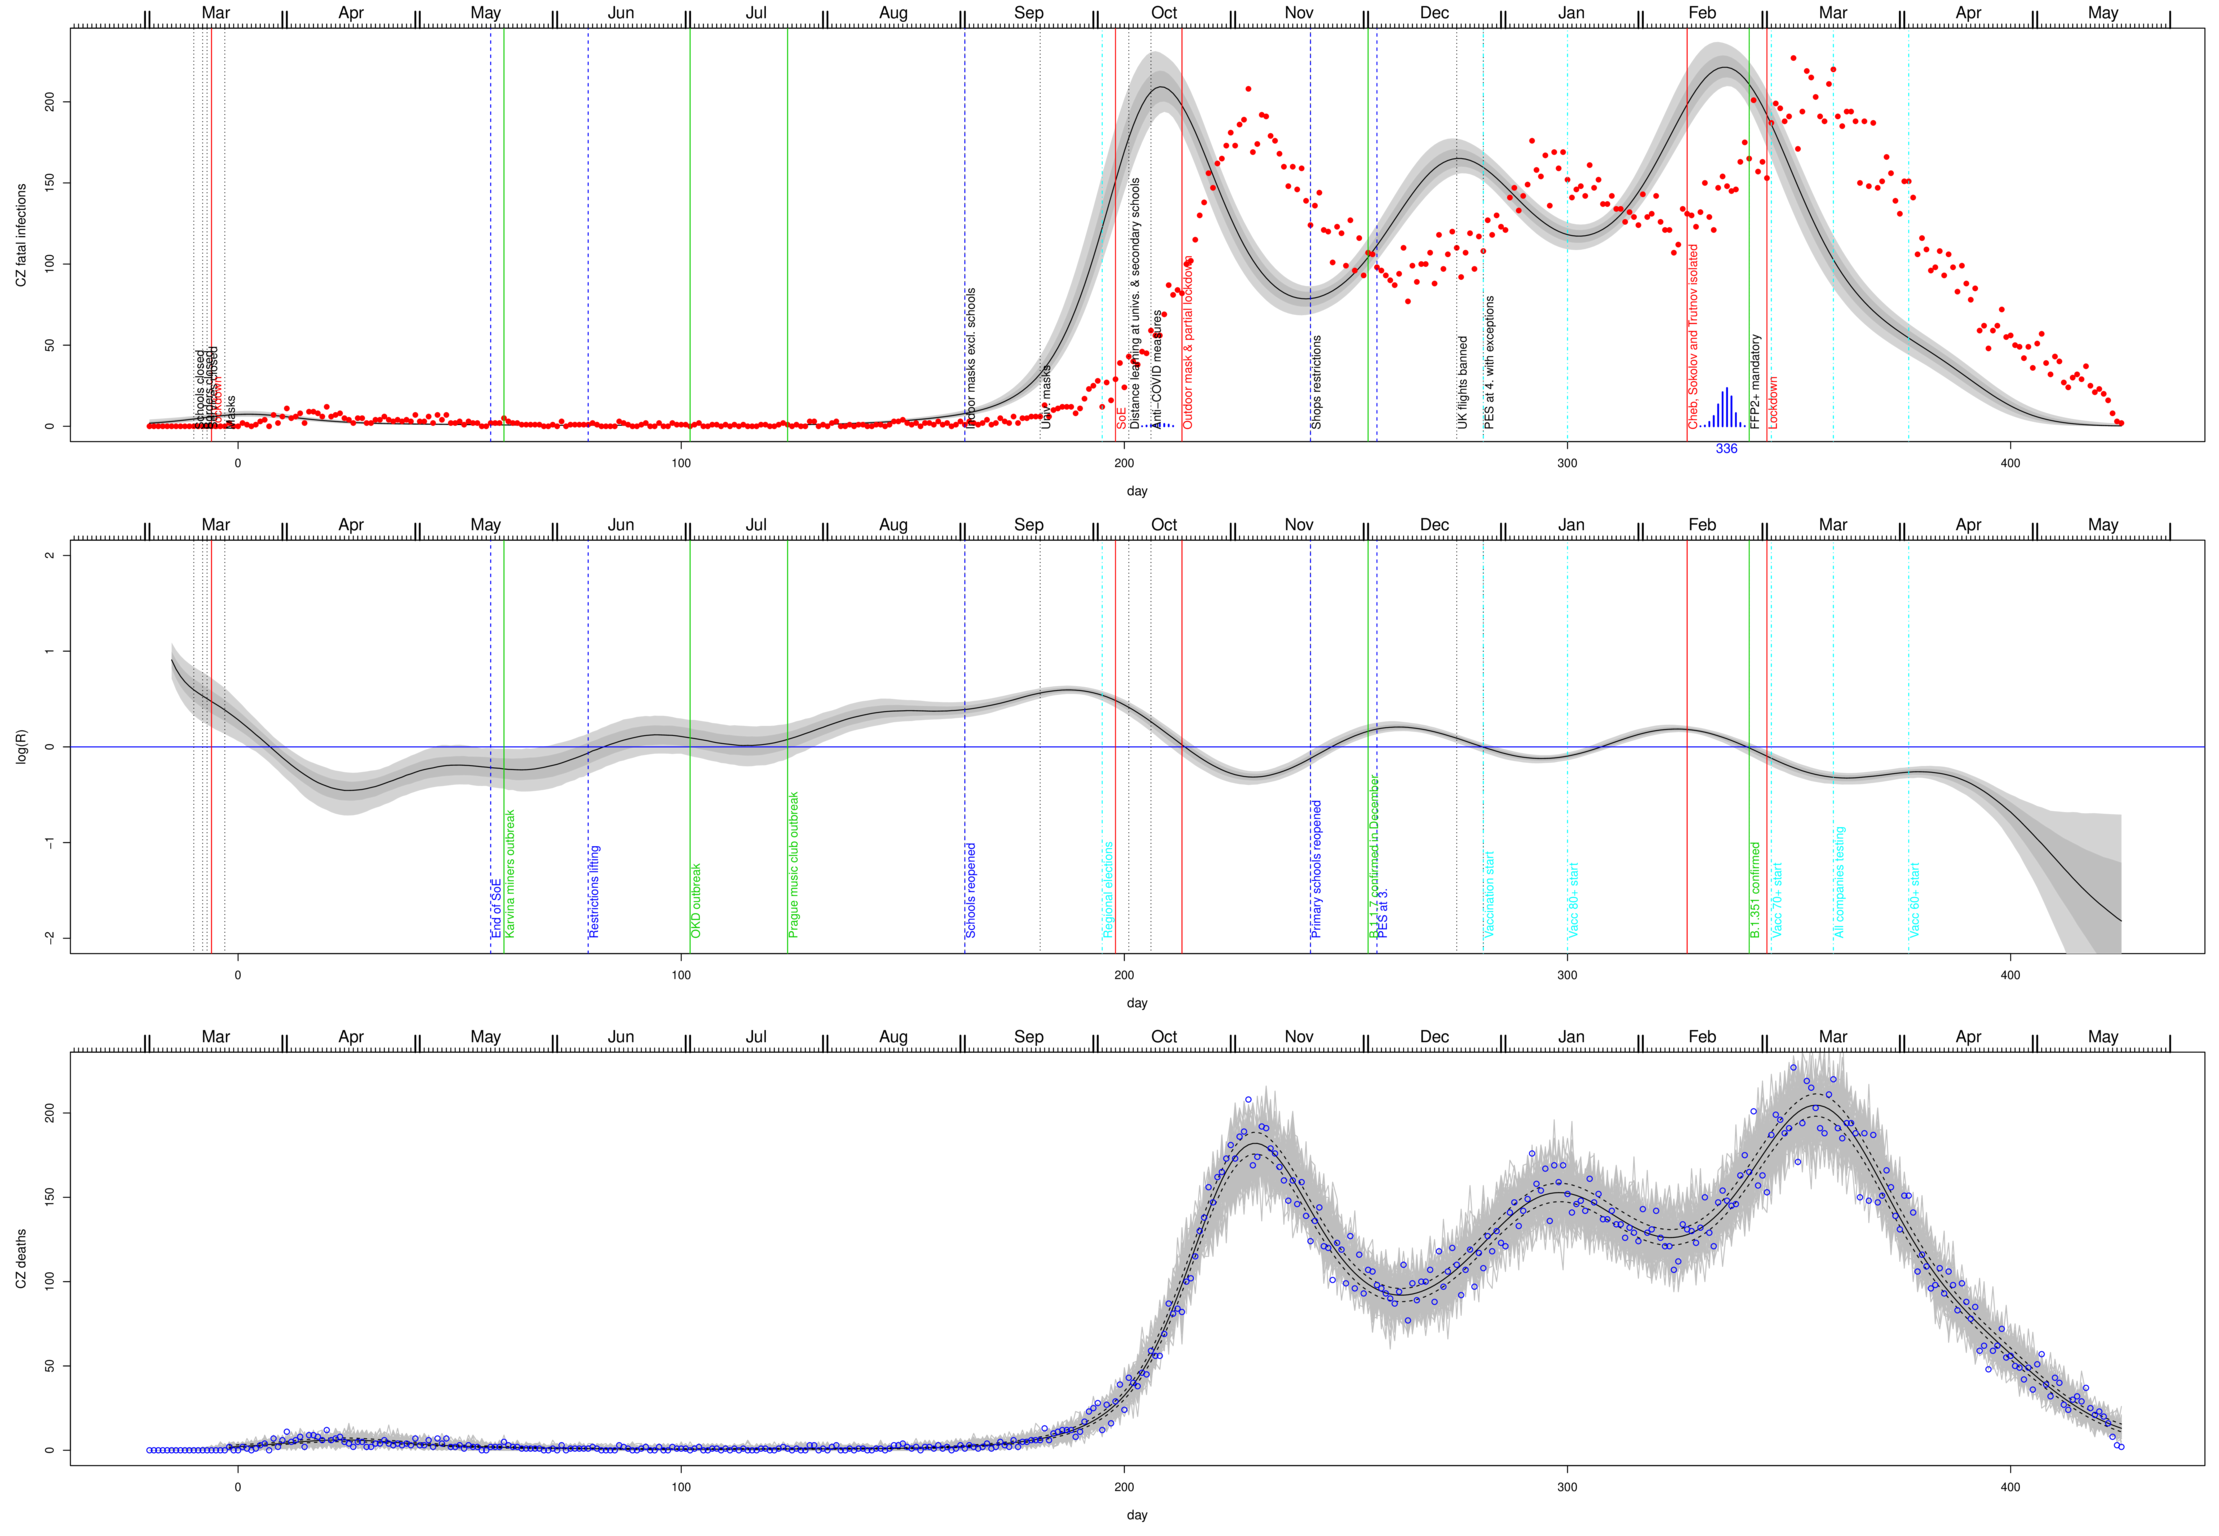
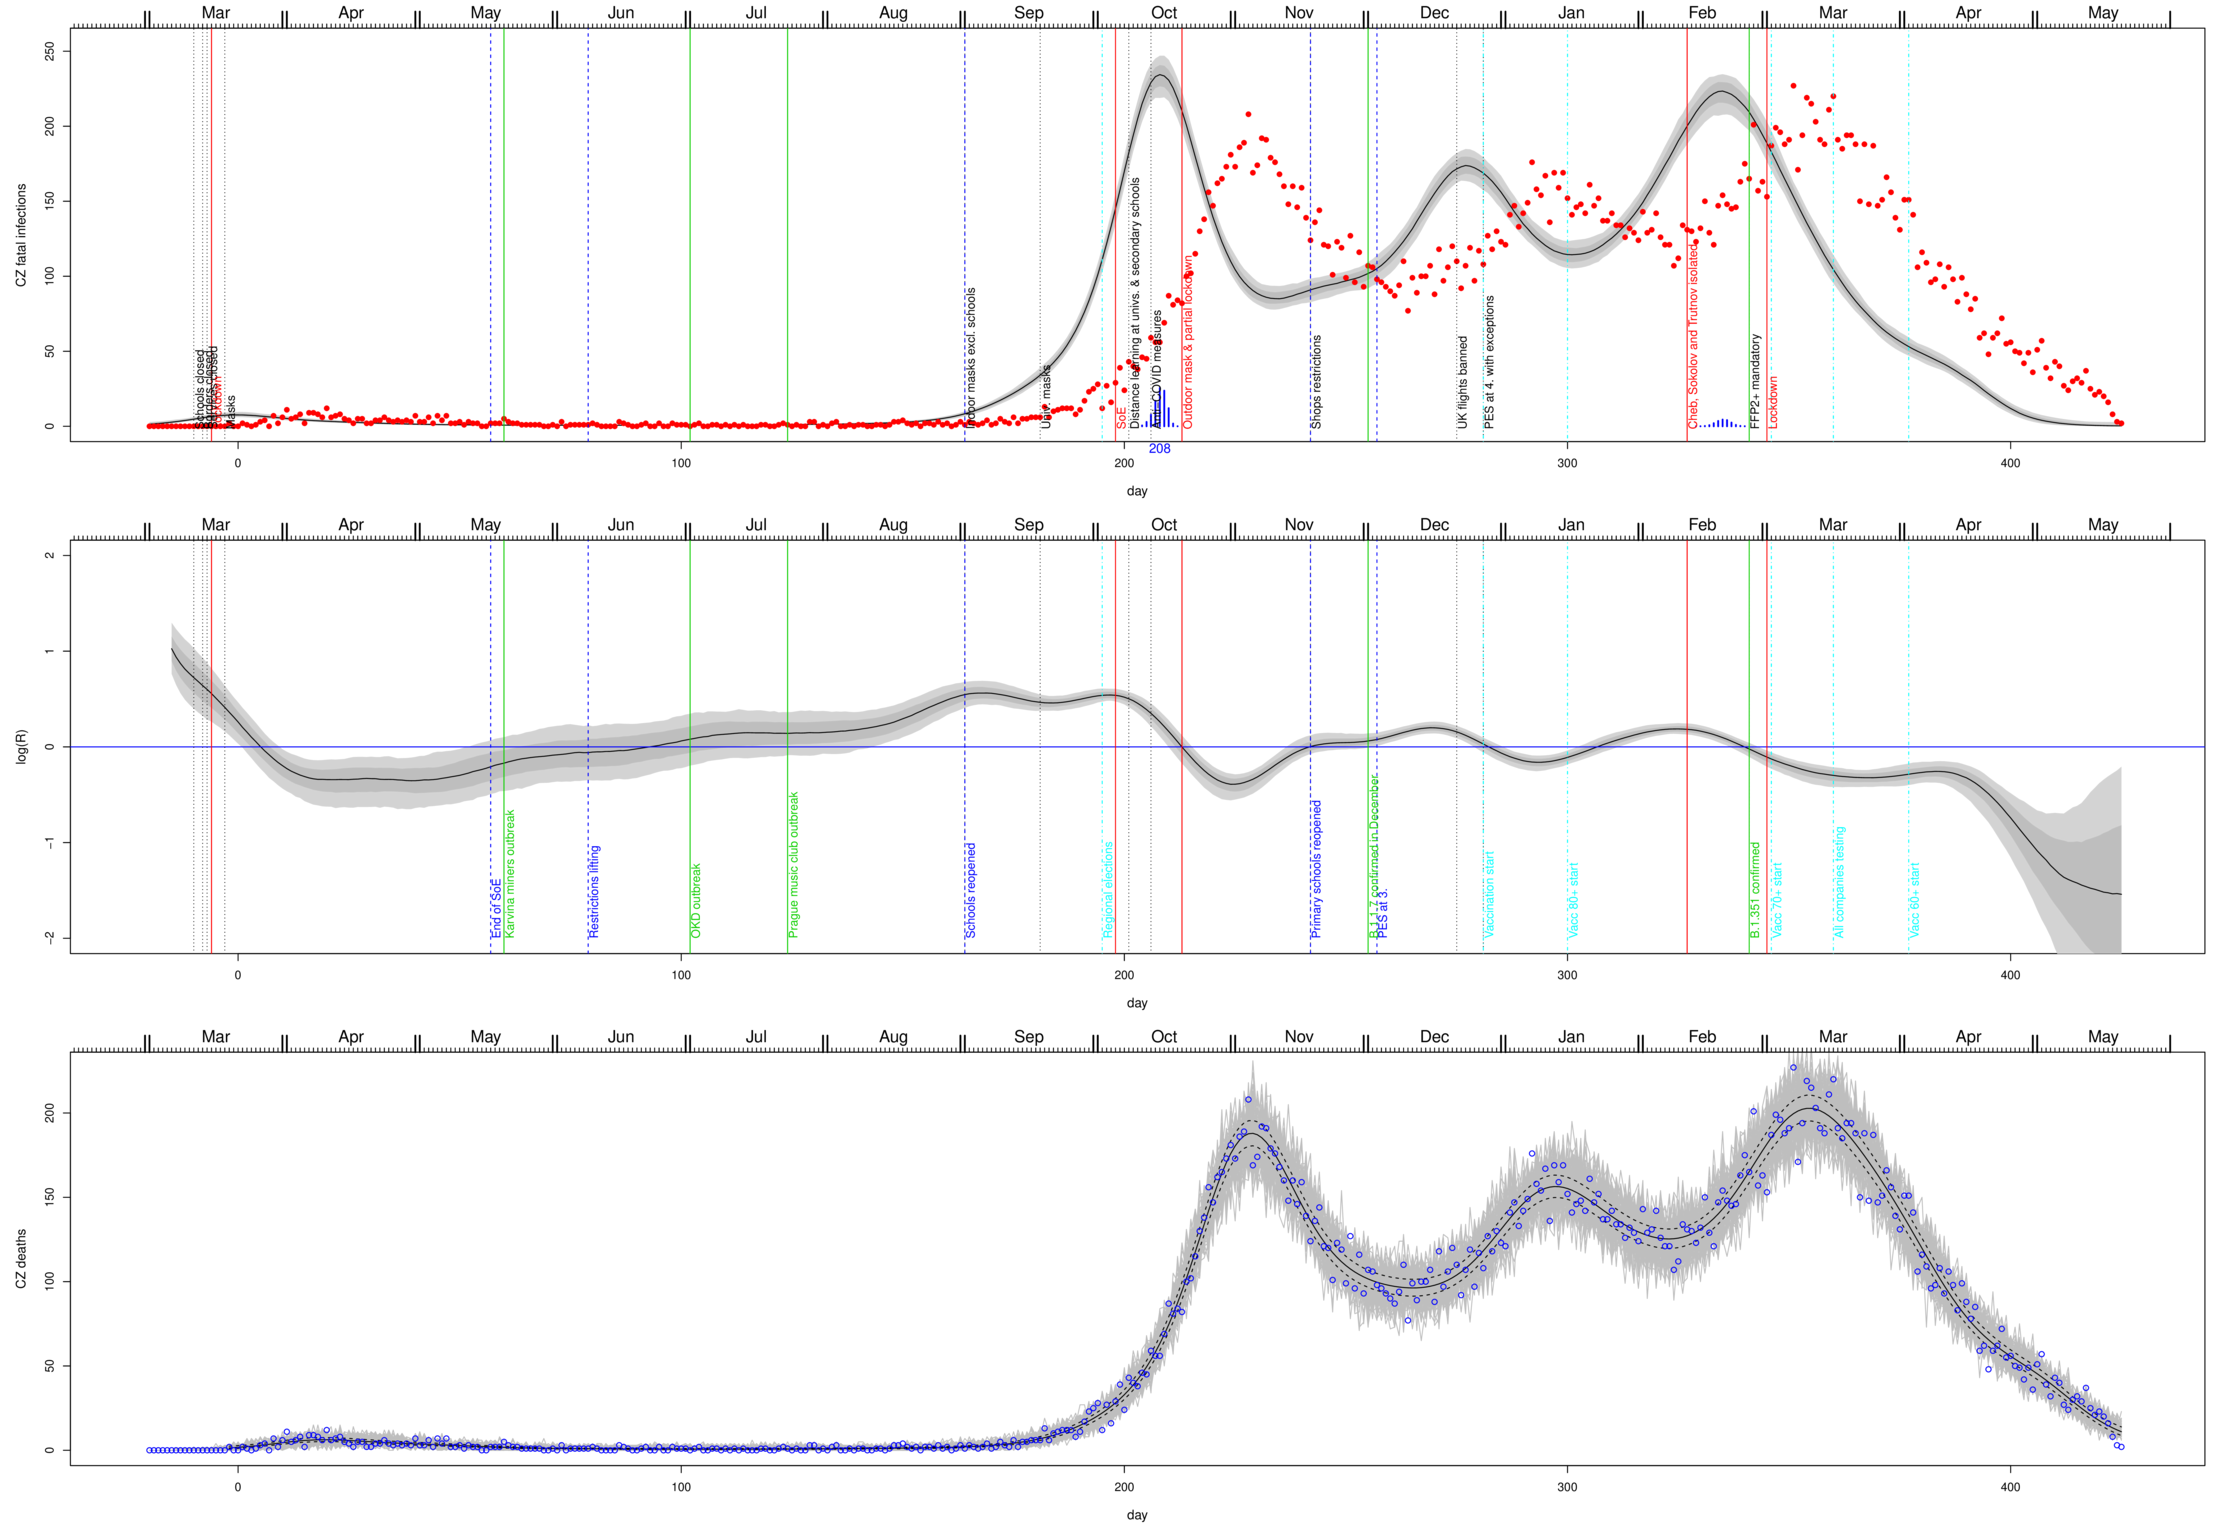
23.5.2021

diff --git a/wood/README.md b/wood/README.md
@@ -88,7 +88,7 @@ For different age groups (**TODO check onset->death DFs for each age group**)
 ### Ages 90-104
 <img src="./cz_deaths-midF90.png" width="1024"/><br>
 ---
-## Model output 1.3.2020 - 1.5.2020
+## Model output 1.3.2020 - 1.5.2021
 **Inferred fatal infections**
 <img src="./cz_fatal1.png" width="1024"/><br>
 Inference for the Czech hospital deaths including disease duration uncertainty. Black line is inferred fatal incidence and show the posterior median, while light grey and dark grey regions show, respectively, 95% and 68% confidence regions, including uncertainty in the fatal disease duration distribution. Day 0 is 13th March 2020. Red symbols are the hospital deaths from which incidence is inferred. Notable restrictions (black and red[lockdowns]) and easings(blue) are marked, together with known outbreaks (green - consecutively: Karvina miners outbreak, OKD outbreak, Prague music club outbreak, B.1.1.7 confirmed in December, B.1.351 confirmed) and other outstanding events (pink), full list with dates is attached later.
@@ -103,6 +103,26 @@ Consistency check. In grey are 100 sets of death data simulated forward from the
 
 ## Model output 1.3.2020 - 1.5.2021
 <img src="./cz_deaths12.png" width="1024"/><br>
+
+---
+## Convergency analysis
+The above results are obtained for the following smoothing parameters in GAM ( ks - nr of knots, bs - spline type):
+```
+1.9.2020 - 1.5.2021: ks=20 bs="tp"
+1.3.2020 - 1.5.2021: ks=30 bs="tp"
+```
+increasing number of knots above aforementioned values didn't change the results substantially, thin plate splines gave better consistency check than adaptive ones (bs="ad") 
+
+### 1.9.2020 - 1.5.2021 fatal infections & Rt
+<img src="./cz_deaths-mid_conv.png" width="1024"/><br>
+<img src="./cz_Rt12-mid_conv.png" width="1024"/><br>
+
+### 1.3.2020 - 1.5.2021 fatal infections & Rt
+<img src="./cz_deaths-mid_conv.png" width="1024"/><br>
+<img src="./cz_Rt12-mid_conv.png" width="1024"/><br>
+
+## Sensitivity analysis for i2o and o2d
+**TODO**
 
 ---
 
@@ -153,7 +173,7 @@ List of important events:
 
 ---
 
-# First attempt (17th-20th May 2021)
+# First attempt (17th-20th May 2021) DEPRECATED
 Initial approach...
 ## Onset to death distributions
 Comparison of real data & fits based on UZIS closed datasets, together with distributions used in the Wood's paper (Wu,Linton,Verity).
